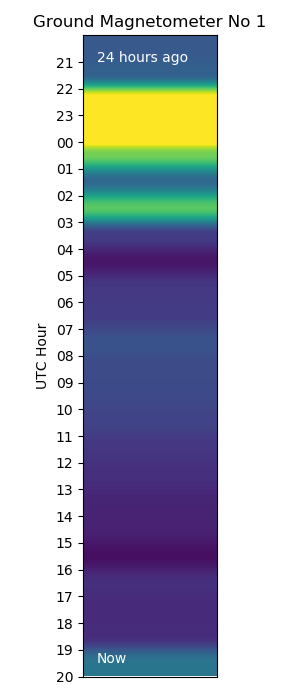
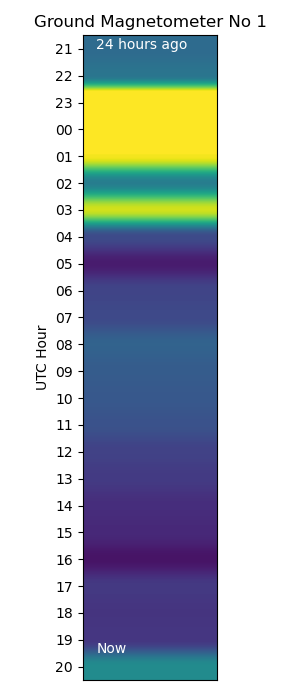
adjusting position of y axis ticks for plotters

diff --git a/dnacore_v3/plot_spark_goes.py b/dnacore_v3/plot_spark_goes.py
@@ -40,7 +40,7 @@ ax.set_title(title)
 ax.annotate('Now', xy=(0,0.5), xytext=(0.5, 0.5), color ="white")
 ax.annotate('24 hours ago', xy=(0,23), xytext=(0.5, 23), color ="white")
 
-b = ax.imshow(data, cmap='viridis', interpolation="hanning", vmin=minvalue, vmax=maxvalue, extent=(0,5,0,24))
+b = ax.imshow(data, cmap='viridis', interpolation="hanning", vmin=minvalue, vmax=maxvalue, extent=(0,5,-0.5,23.5))
 # cbar = ax.figure.colorbar(b, ax=ax)
 # cbar.ax.set_ylabel("x background level")
 # plt.colorbar(b)

diff --git a/dnacore_v3/plot_spark_ruru.py b/dnacore_v3/plot_spark_ruru.py
@@ -40,7 +40,7 @@ ax.set_title(title)
 ax.annotate('Now', xy=(0,0.5), xytext=(0.5, 0.5), color ="white")
 ax.annotate('24 hours ago', xy=(0,23), xytext=(0.5, 23), color ="white")
 
-b = ax.imshow(data, cmap='viridis', interpolation="hanning", vmin=minvalue, vmax=maxvalue, extent=(0,5,0,24))
+b = ax.imshow(data, cmap='viridis', interpolation="hanning", vmin=minvalue, vmax=maxvalue, extent=(0,5,-0.5,23.5))
 # cbar = ax.figure.colorbar(b, ax=ax)
 # cbar.ax.set_ylabel("x background level")
 # plt.colorbar(b)
